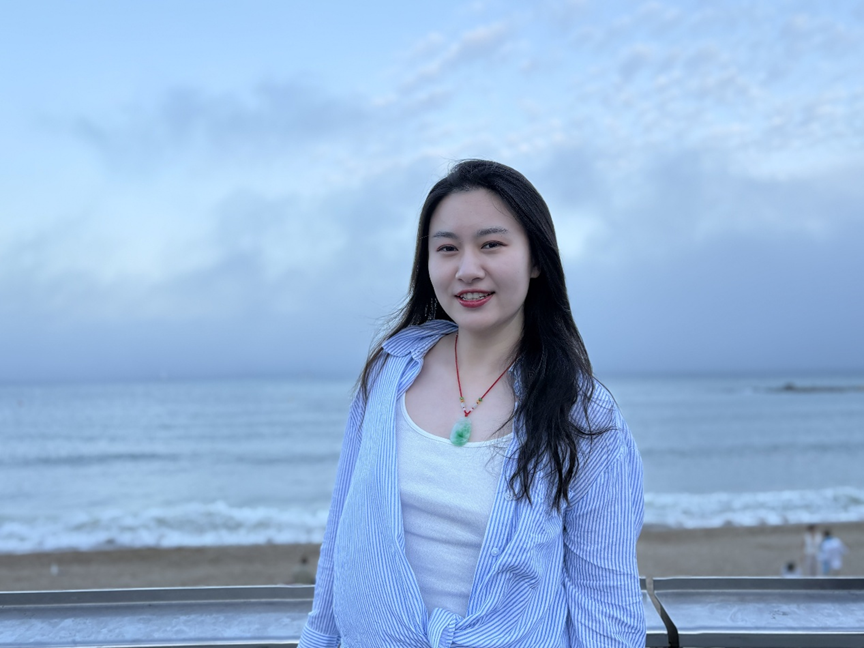
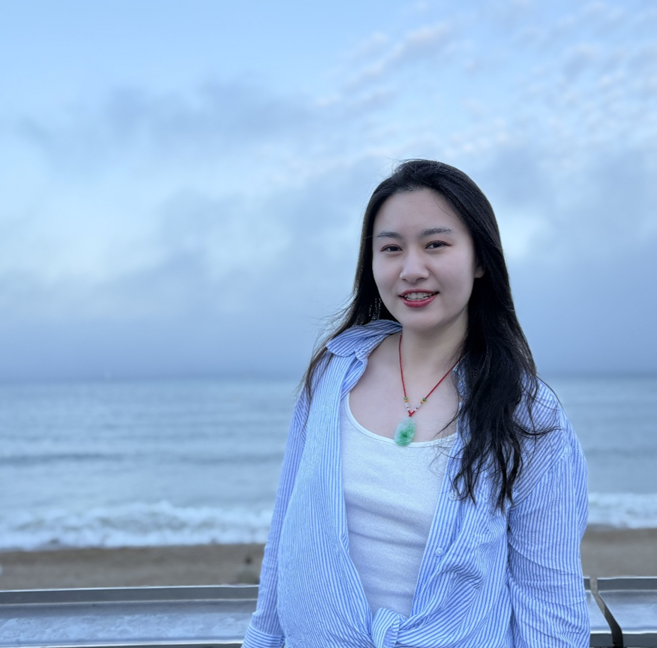
images

diff --git a/index.html b/index.html
@@ -86,7 +86,7 @@
 		}
 		div.sub-right{
 			float: left;
-			width: 750px;			
+			width: 750px;
 		}
 		.paper{
 			overflow: auto;
@@ -184,8 +184,8 @@
 	<div class="section">
 		<span class="Title"><b>News</b></span><p>
 		<hr style="BORDER-LEFT-STYLE: none; BORDER-TOP: gray 2px groove; HEIGHT: 0px; BORDER-BOTTOM-STYLE: none; BORDER-RIGHT-STYLE: none">
-		<div class="paper long"><b>
-			<div class="sub-right">
+		<div class="paper"><b>
+
 			<div class="paperName"><b>	
 			2025.11 | Our paper on "Edge-Centric Relational Reasoning for 3D Scene Graph Prediction" is accepted to <span style="color:red">AAAI 2026</span>.<br>
 			2024.07 | Our paper on "Heterogeneous Graph Learning for Scene Graph Prediction in 3D Point Clouds" is accepted to <span style="color:red">ECCV 2024</span>.<br>
@@ -193,7 +193,7 @@
 			2020.07 | Our paper on "Semantic Context Encoding for Accurate 3D Point Cloud Segmentation" is accepted to <span style="color:red">IEEE TMM</span>.<br>
 			2019.11 | Our paper on "Global Context Reasoning for Semantic Segmentation of 3D Point Clouds" is accepted to <span style="color:red">WACV 2020</span>.<br>
 			</b></div>
-			</b></div>
+
 		</b></div>
 	</div>
 
@@ -233,7 +233,7 @@
 						<b>  Yanni Ma</b>, Hao Liu, Yun Pei, Yulan Guo.
 					</div>
 					<div class="paperPub">
-						<span style="color:red"> European Conference on Computer Vision (ECCV), 2024.</span>.<br>
+						<span style="color:red"> European Conference on Computer Vision (ECCV), 2024</span>.<br>
 					</div>
 				</div>
 			</div>
@@ -252,7 +252,7 @@
 						<b>  Yanni Ma</b>,  Hao Liu, Pei Yun, Yulan Guo, Theo Gevers, Martin Oswald.<br>
 					</div>
 					<div class="paperPub">
-						<span style="color:red"> Under review.</span>.<br>
+						<span style="color:red"> Under review </span>.<br>
 					</div>
 				</div>
 		</div>
@@ -291,7 +291,7 @@
 						Hao Liu, <b>Yanni Ma</b>, Yan Liu, Haihong Xiao, Ying He
 					</div>
 					<div class="paperPub">
-						<span style="color:red"> Arxiv 2411.18666.</span><br>
+						<span style="color:red"> Arxiv 2411.18666</span>.<br>
 					</div>
 				</div>
 			</div>
@@ -310,7 +310,7 @@
 						Hao Liu , <b> Yanni Ma</b>, Hanyun Wang, Chaobo Zhang, Yulan Guo
 					</div>
 					<div class="paperPub">
-						<span style="color:red"> IEEE Transactions on Intelligent Transportation Systems (TITS, CCF-B), 2023.</span><br>
+						<span style="color:red"> IEEE Transactions on Intelligent Transportation Systems (TITS, CCF-B), 2023</span>.<br>
 					</div>
 				</div>
 			</div>
@@ -328,7 +328,7 @@
 						Hao Liu, <b>Yanni Ma</b>, Qingyong Hu, Yulan Guo
 					</div>
 					<div class="paperPub">
-						<span style="color:red"> IEEE Transactions on Multimedia (TMM, CCF-B), 2023.</span><br>
+						<span style="color:red"> IEEE Transactions on Multimedia (TMM, CCF-B), 2023</span>.<br>
 					</div>
 				</div>
 			</div>
